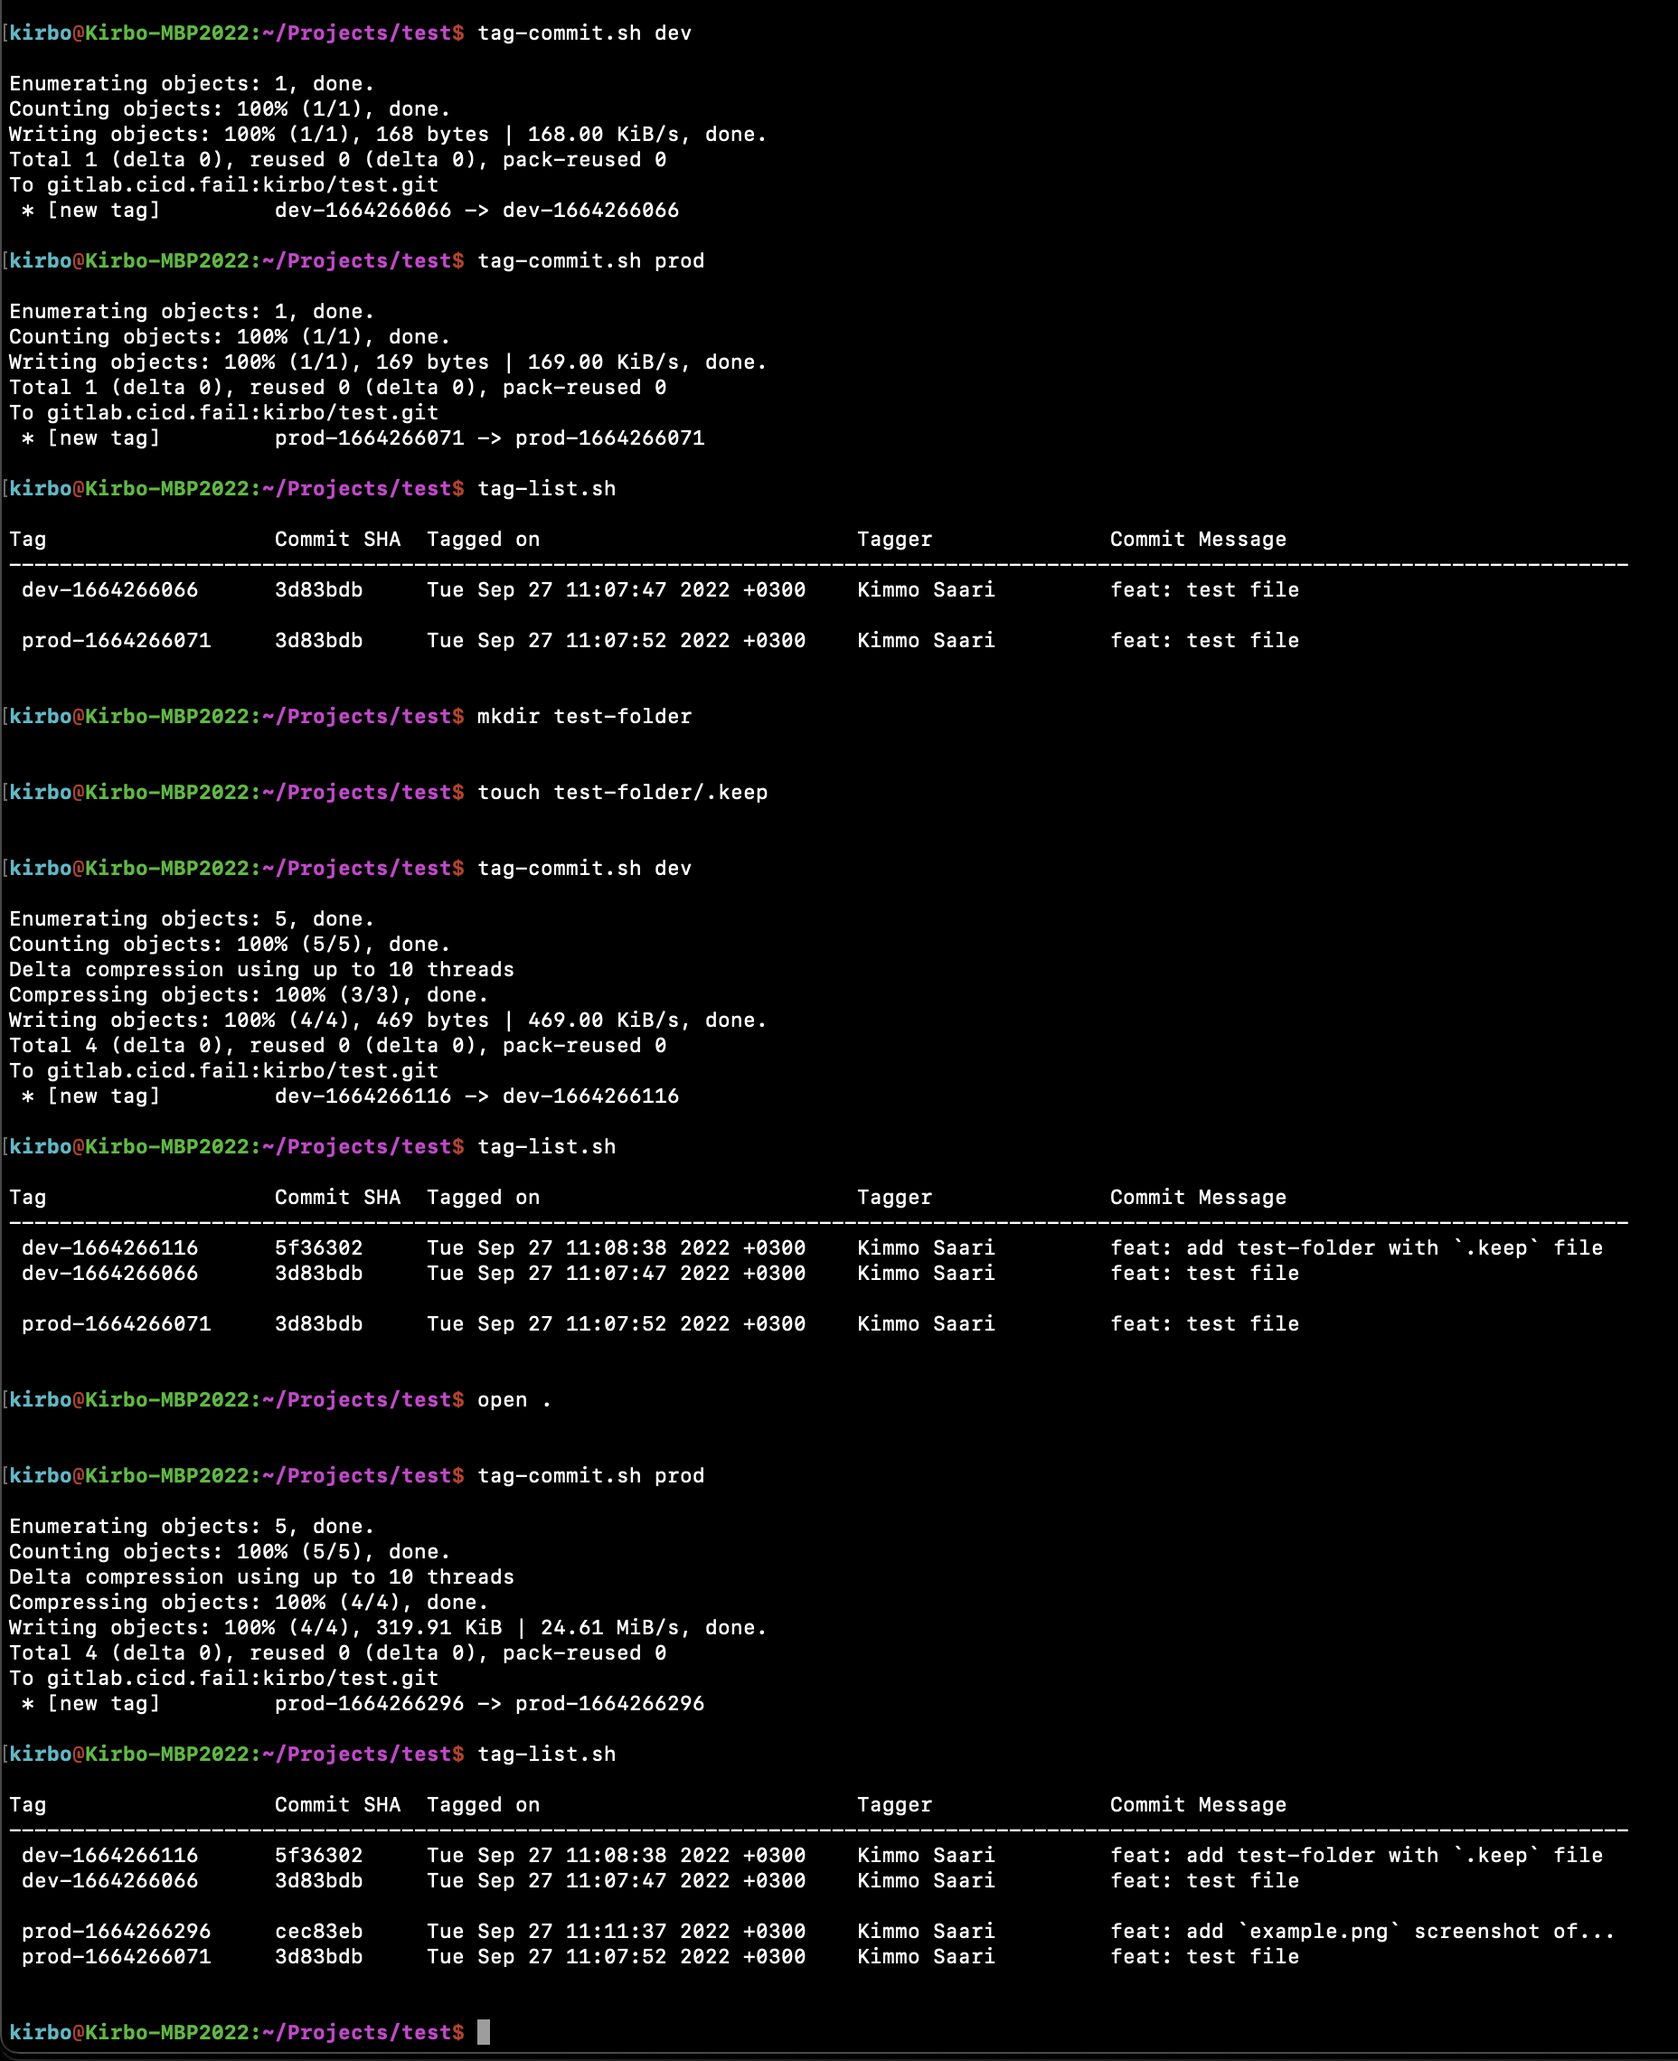
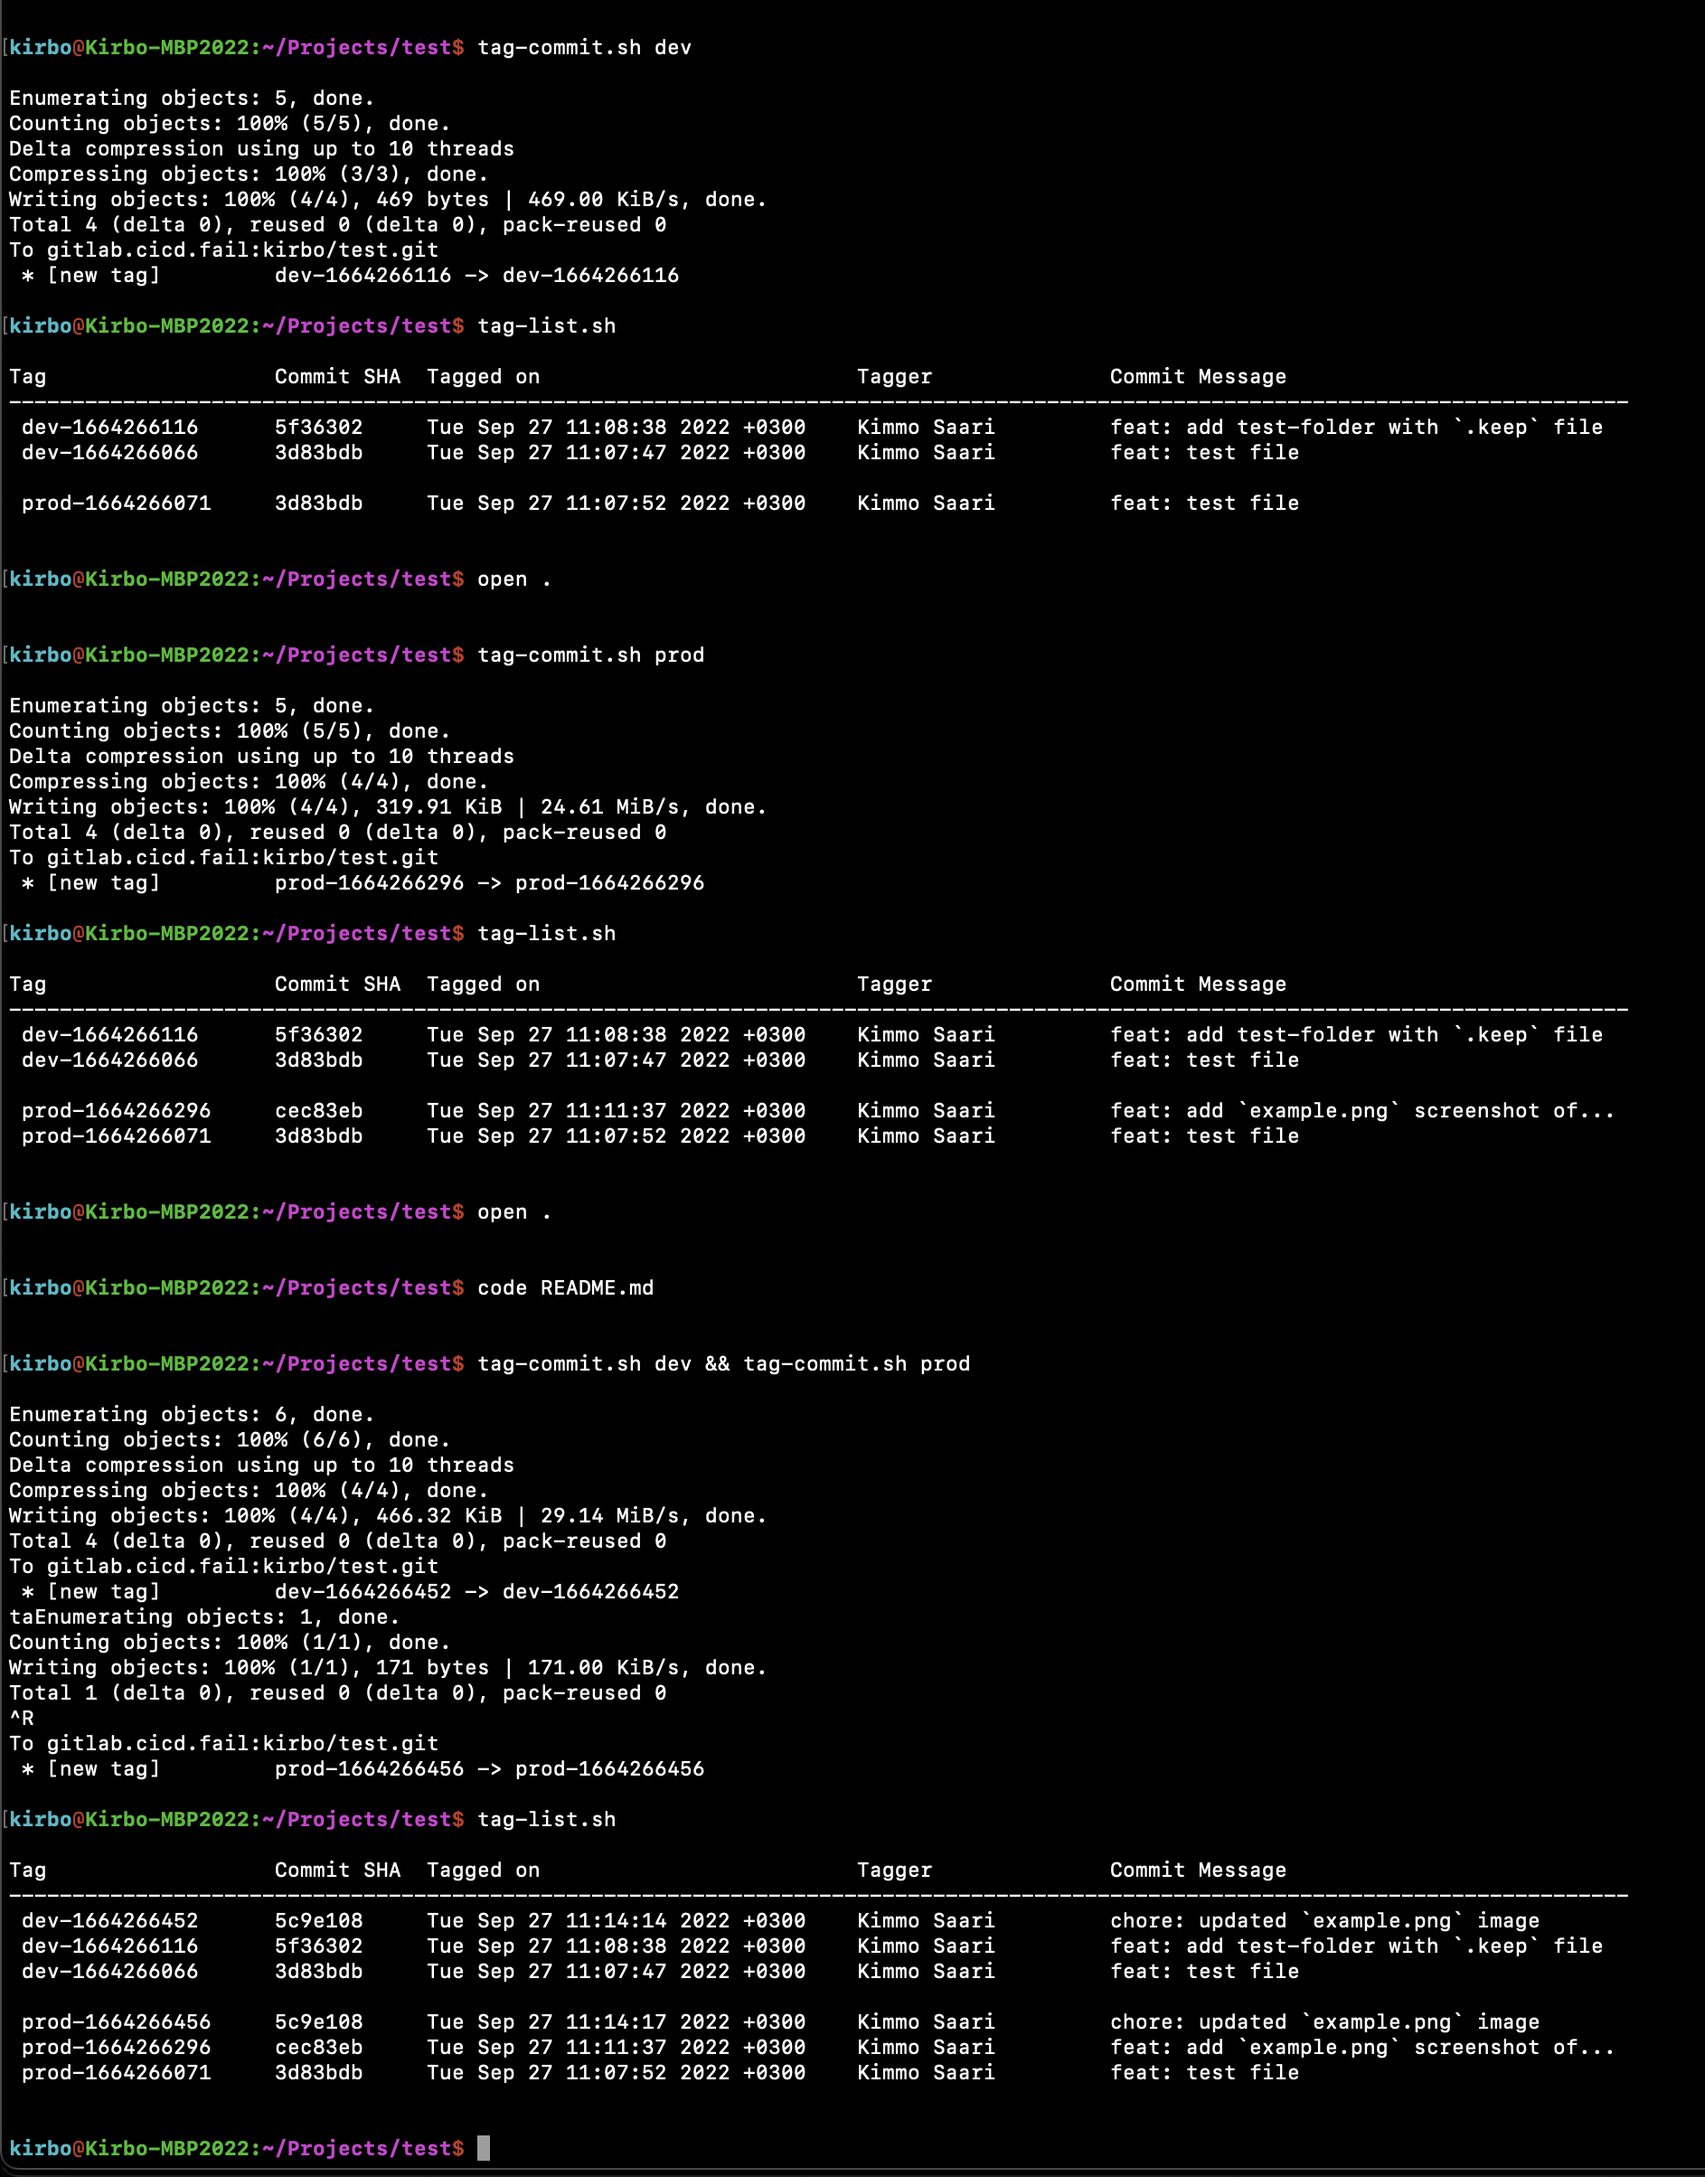
feat: add `README.md` and updated `example.png`

diff --git a/README.md b/README.md
@@ -1,0 +1,5 @@
+# Project Helper Test
+
+This is an example repository of using the `project-helpers` commands, found in https://github.com/Kirbo/project-helpers/.
+
+![Screenshot](./example.png)
